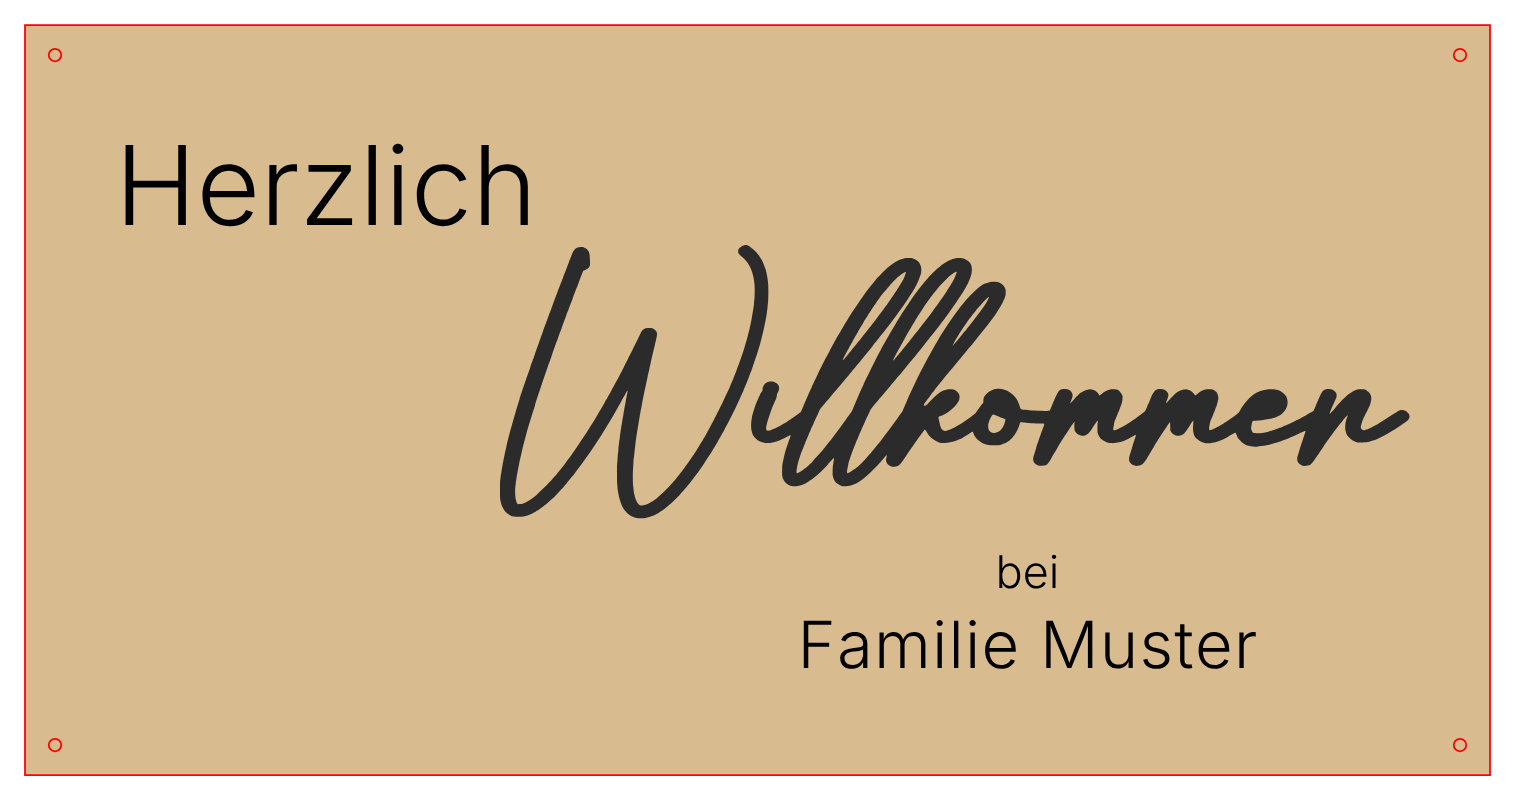
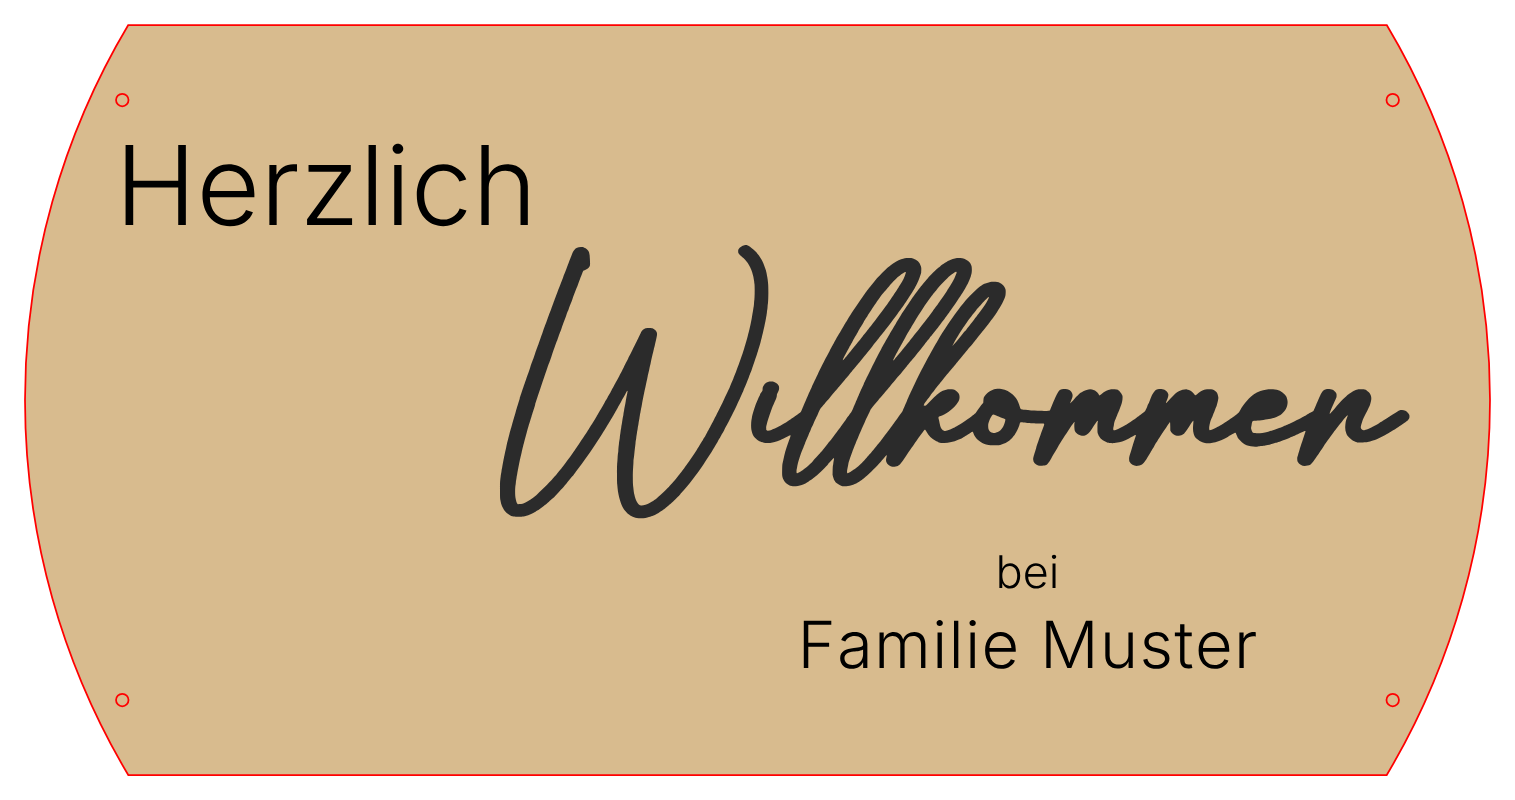
Door sign: round plate ends following the ring (Ø 293 mm)
Claude-Session: https://claude.ai/code/session_01N4H9QYeD71FtDVpzZmrj4t

diff --git a/designs/tuerschild-herzlich-willkommen/generator_tuerschild.py b/designs/tuerschild-herzlich-willkommen/generator_tuerschild.py
@@ -99,11 +99,16 @@ def svg(path, W, H, cut, engr, prev=False, appl=None):
 path_fn, ww, wh, thin = willkommen(WK_W, WK_MIN)
 m = 5.0
 # 1) Holzplatte: Kontur, 4 Loecher fuer Draht, Gravur
-plate = f"M{m},{m} H{m + BW} V{m + BH} H{m} Z"
+# Platte = waagrechtes Band (Hoehe BH) aus einem Kreis mit Durchmesser BW (Ring): links und rechts rund
+R = BW / 2; pcx, pcy = m + R, m + BH / 2
+hx = (R * R - (BH / 2) ** 2) ** 0.5
+plate = (f"M{pcx - hx:.3f},{m} H{pcx + hx:.3f} A{R},{R} 0 0,1 {pcx + hx:.3f},{m + BH} "
+         f"H{pcx - hx:.3f} A{R},{R} 0 0,1 {pcx - hx:.3f},{m} Z")
 holes = []
-for hx, hy in [(6, 6), (BW - 6, 6), (6, BH - 6), (BW - 6, BH - 6)]:
-    cx, cy, r = m + hx, m + hy, 1.25
-    holes.append(f"M{cx - r:.3f},{cy} a{r},{r} 0 1,0 {2 * r},0 a{r},{r} 0 1,0 {-2 * r},0 Z")
+for sx in (-1, 1):
+    for dy in (-60.0, 60.0):
+        cx, cy, r = pcx + sx * ((R - 6) ** 2 - dy ** 2) ** 0.5, pcy + dy, 1.25
+        holes.append(f"M{cx - r:.3f},{cy:.3f} a{r},{r} 0 1,0 {2 * r},0 a{r},{r} 0 1,0 {-2 * r},0 Z")
 herz, hw = text(INTER, "Herzlich", m + 18, m + 40, 22)
 wk_cx = m + WK_X + ww * 0.58
 bei, _ = text(INTER, "bei", wk_cx, m + WK_TOP + wh + 14, 9, "middle")
